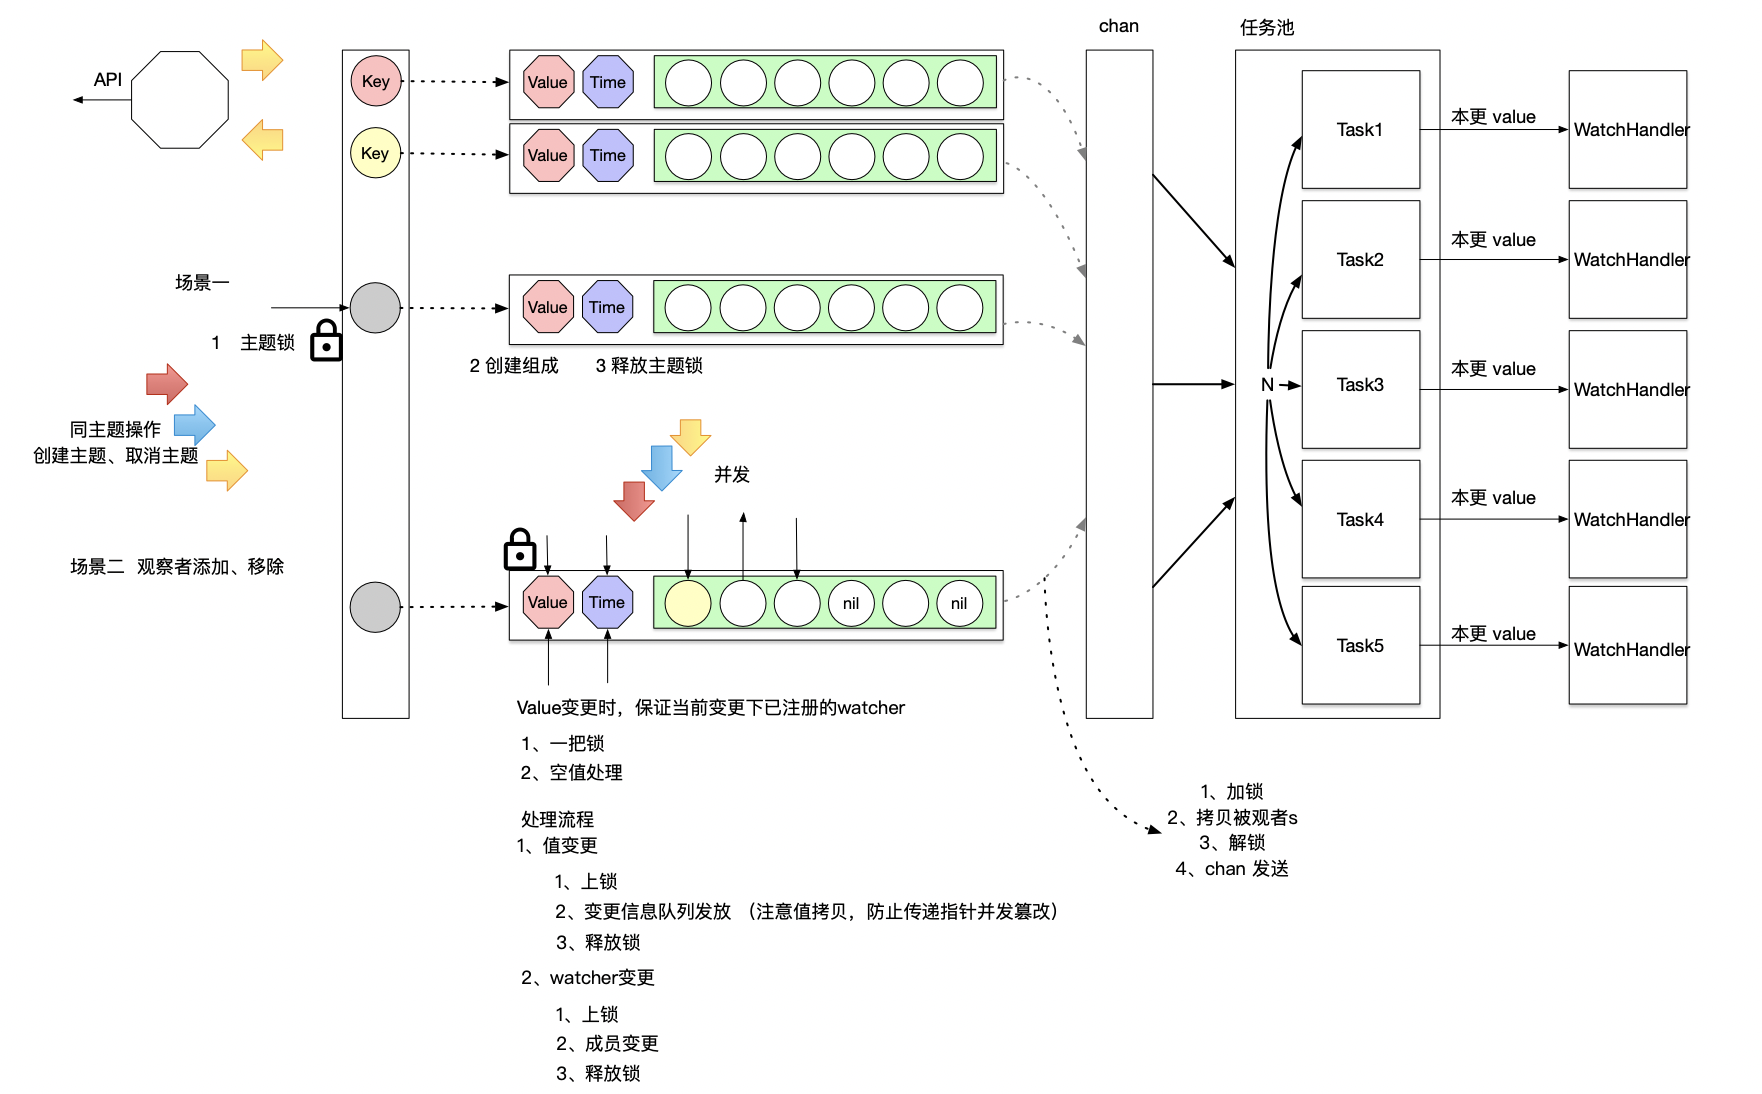
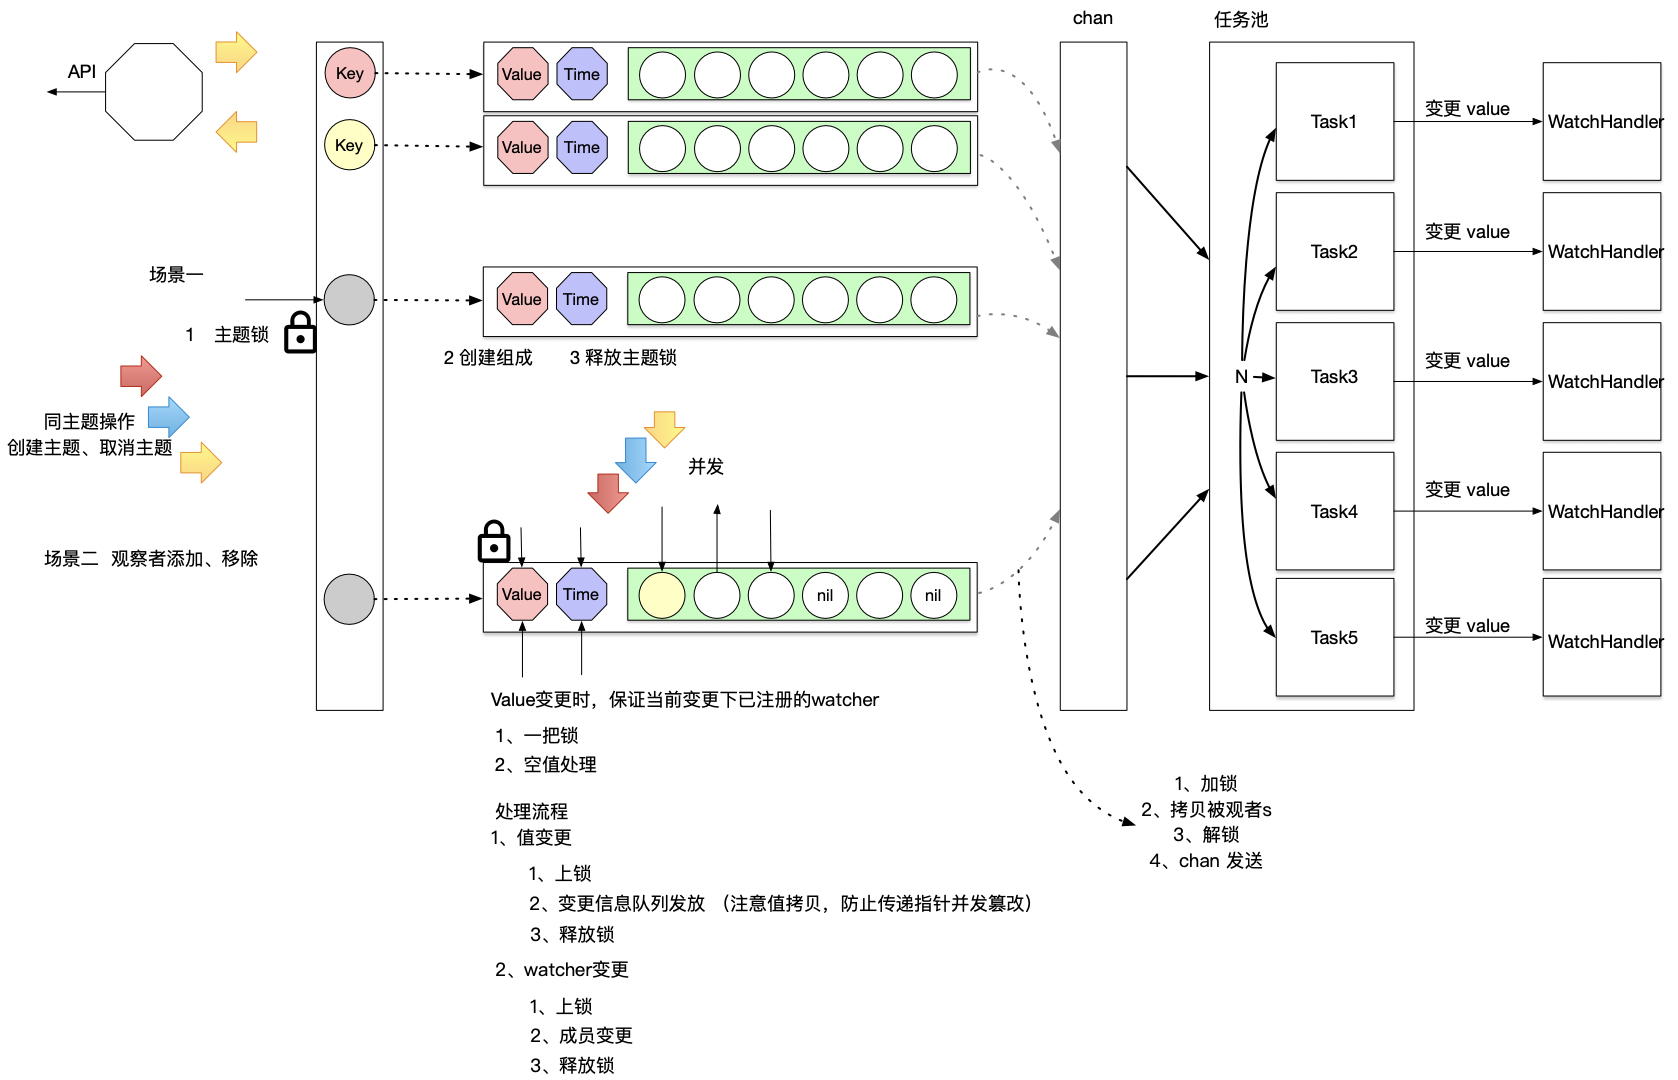
修改 dev 分支 watch 图片错别字

diff --git a/ReadMe.md b/ReadMe.md
@@ -41,5 +41,11 @@ keywords ch：节点控制、节点监控、服务器监控、系统控制
 
 ![image-20200507225222651](assets/image-20200507225222651.png)
 
-### 使用
+
+
+### 使用 TODO
+
+
+
+## 进展
 
